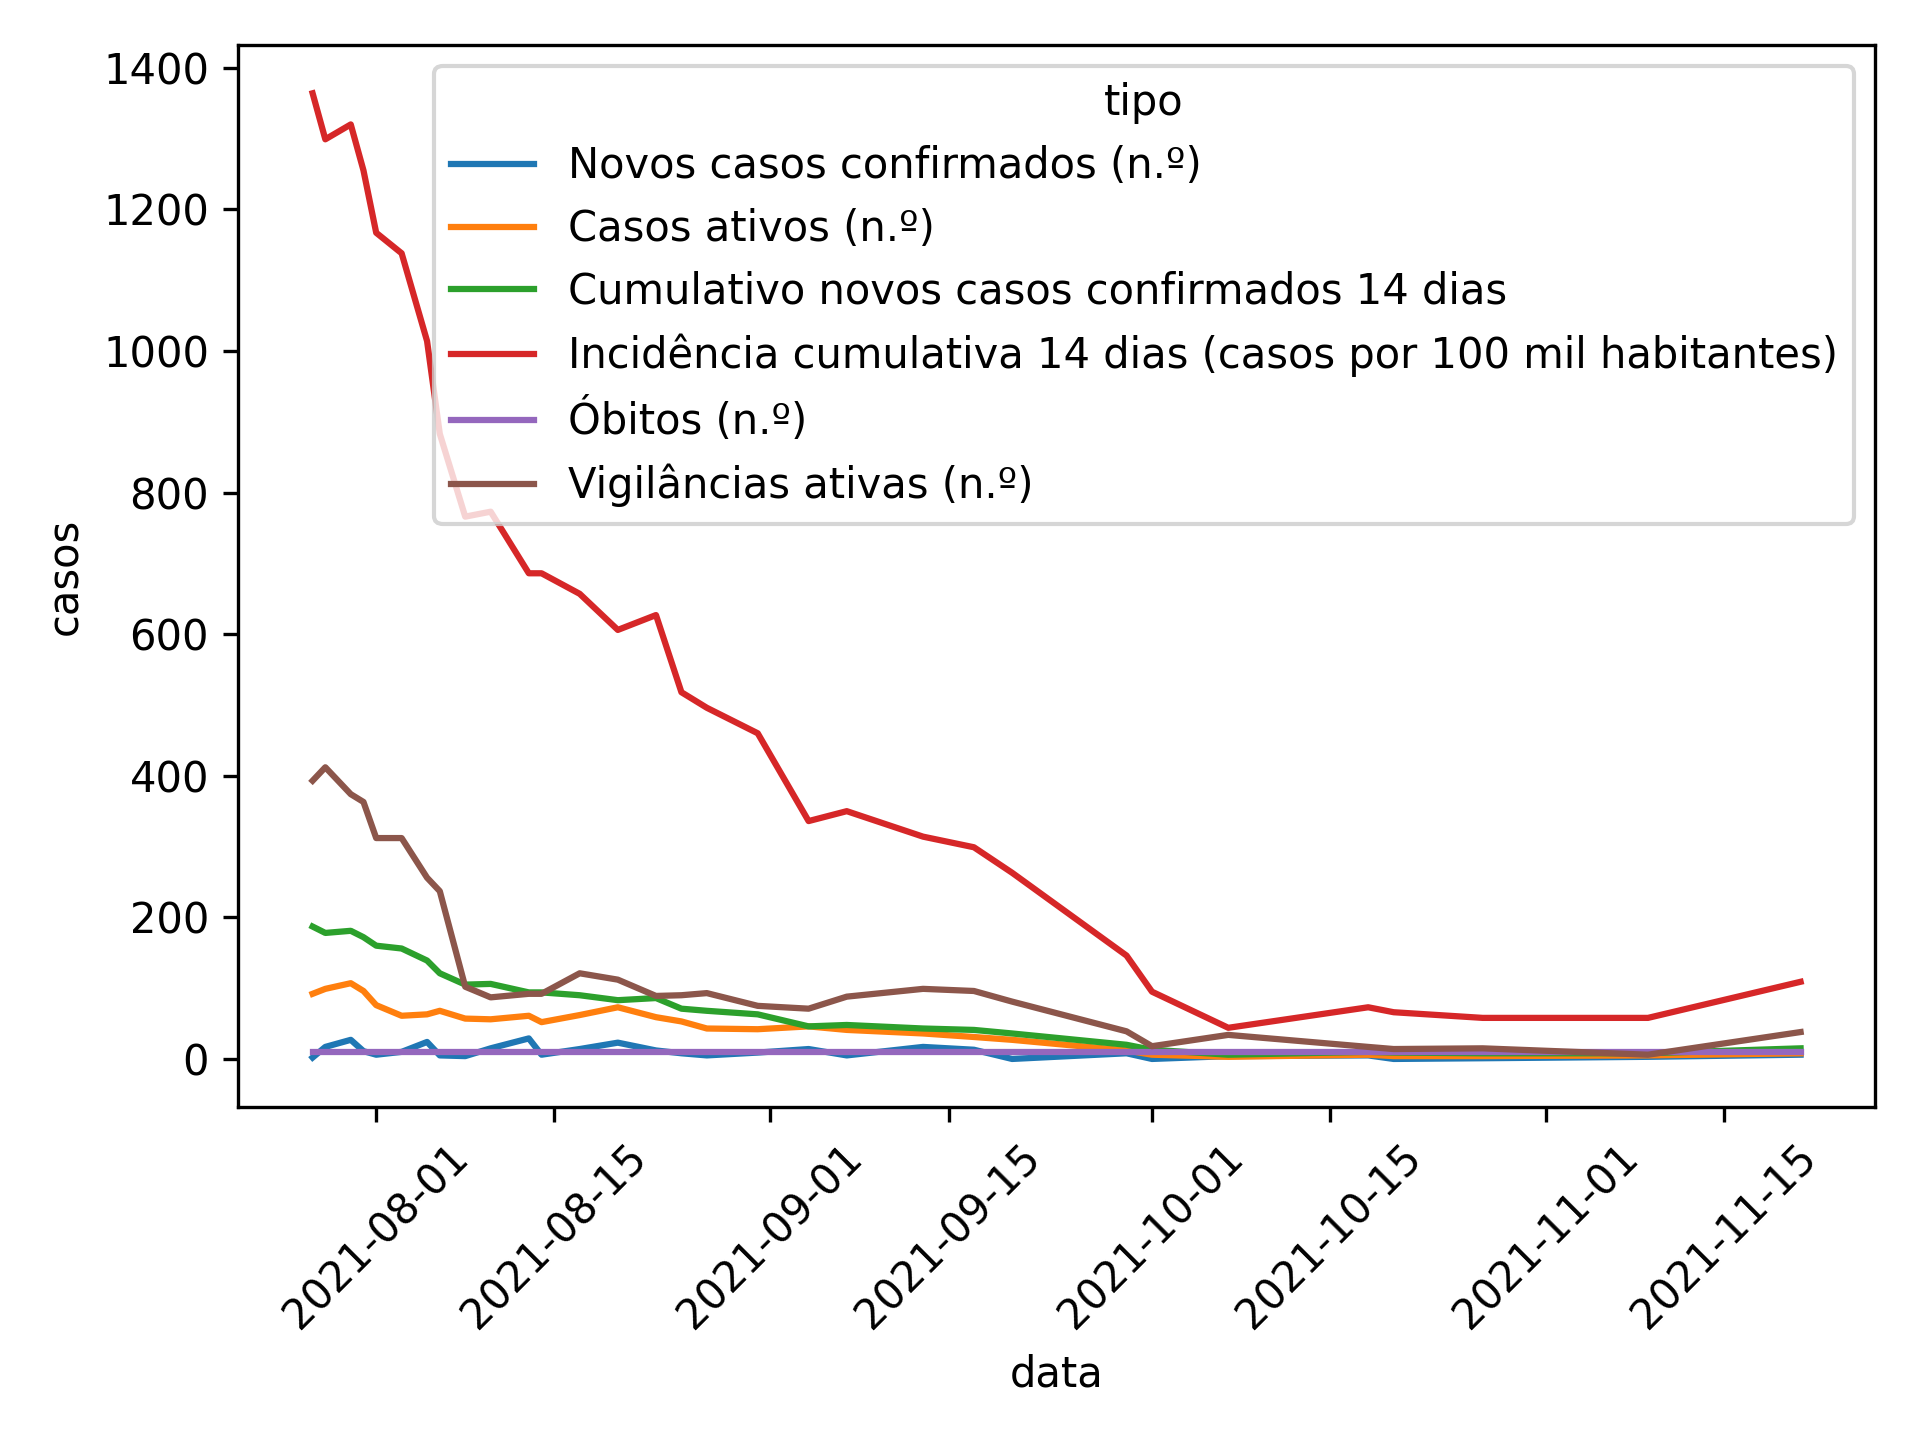
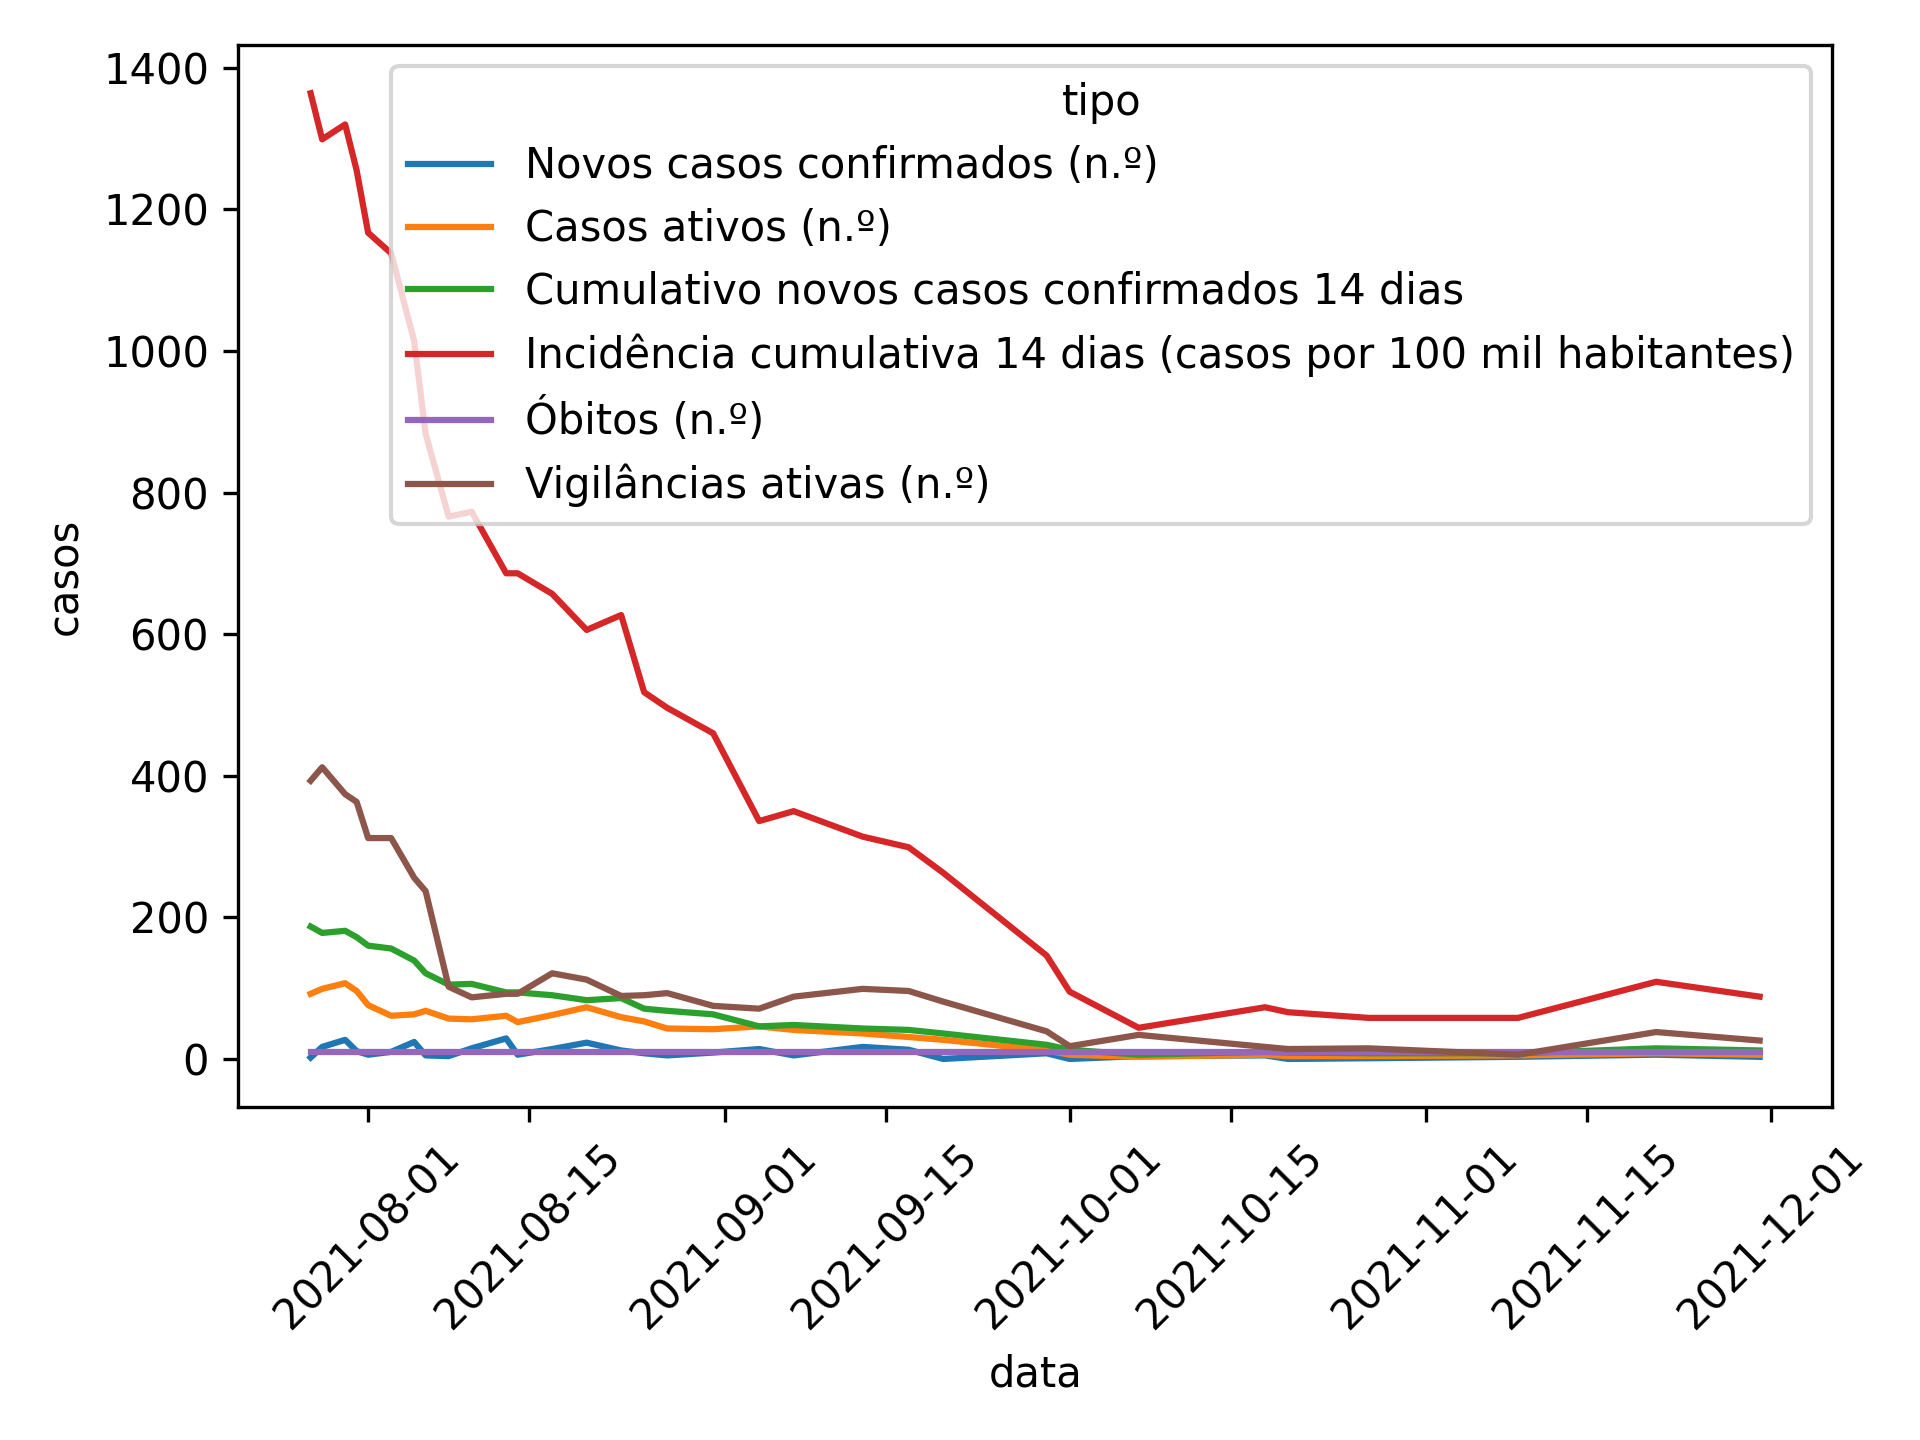
Apply automatic changes

diff --git a/README.md b/README.md
@@ -6,7 +6,6 @@
 
 | data       |   Novos casos confirmados (n.º) |   Casos ativos (n.º) |   Cumulativo novos casos confirmados 14 dias |   Incidência cumulativa 14 dias (casos por 100 mil habitantes) |   Óbitos (n.º) |   Vigilâncias ativas (n.º) |
 |:-----------|--------------------------------:|---------------------:|---------------------------------------------:|---------------------------------------------------------------:|---------------:|---------------------------:|
-| 27-08-2021 |                               5 |                   43 |                                           68 |                                                            496 |             10 |                         93 |
 | 31-08-2021 |                               9 |                   42 |                                           63 |                                                            460 |             10 |                         75 |
 | 04-09-2021 |                              14 |                   46 |                                           46 |                                                            336 |             10 |                         71 |
 | 07-09-2021 |                               5 |                   41 |                                           48 |                                                            350 |             10 |                         88 |
@@ -21,3 +20,4 @@
 | 27-10-2021 |                               1 |                    4 |                                            8 |                                                             58 |             10 |                         15 |
 | 09-11-2021 |                               3 |                    5 |                                            8 |                                                             58 |             10 |                          6 |
 | 21-11-2021 |                               6 |                    8 |                                           15 |                                                            109 |             10 |                         38 |
+| 30-11-2021 |                               3 |                    6 |                                           12 |                                                             88 |             10 |                         26 |
